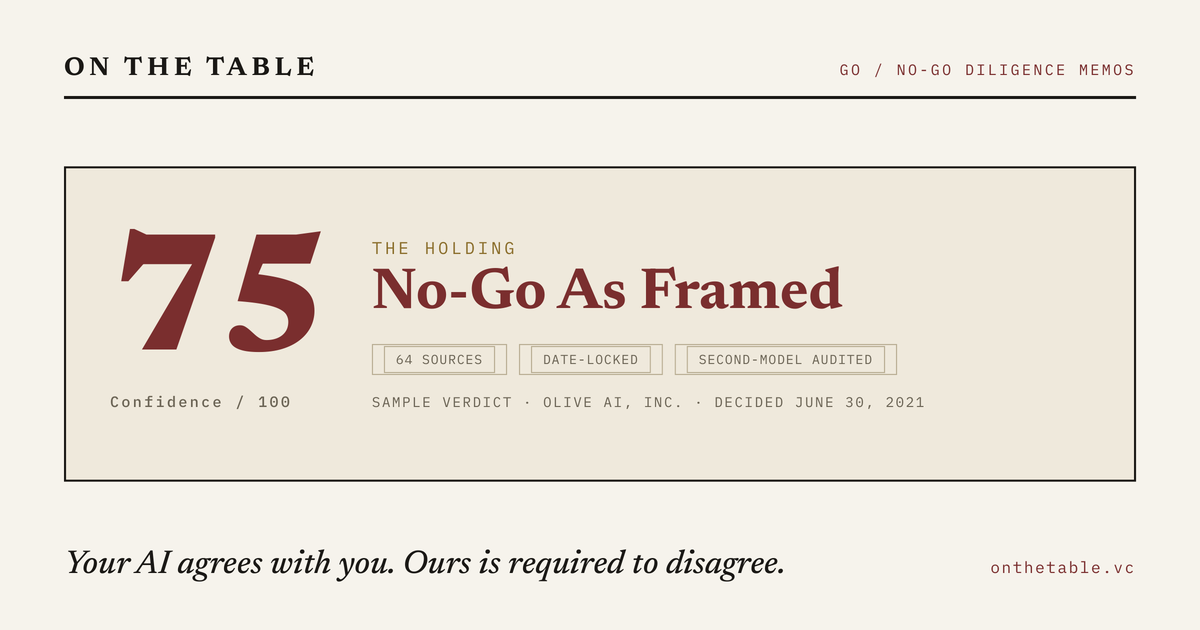
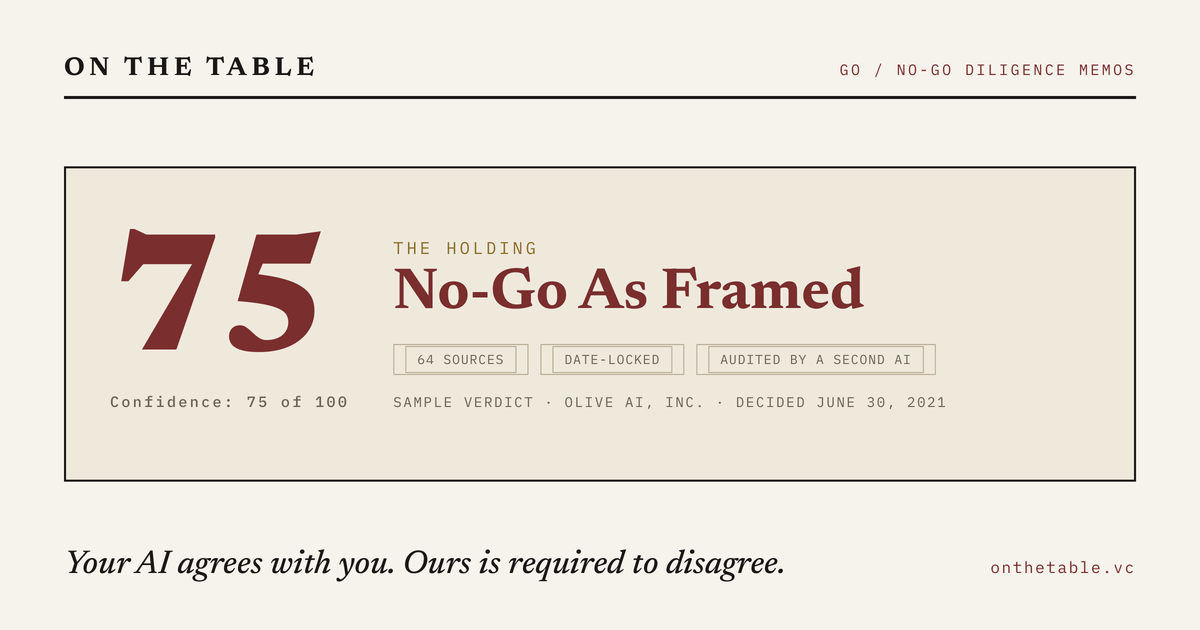
Landing card gloss + confidence label; og refresh

diff --git a/index.html b/index.html
@@ -42,6 +42,7 @@
   .card .num{font-family:var(--display);font-weight:800;font-size:72px;line-height:0.82;letter-spacing:-0.03em;color:var(--oxblood);}
   .card .num small{display:block;font-family:var(--mono);font-size:10px;font-weight:500;letter-spacing:0.16em;color:var(--dim);margin-top:8px;}
   .card .hold{font-family:var(--mono);font-size:11px;letter-spacing:0.16em;text-transform:uppercase;color:var(--gold);}
+  .card .gloss{font-family:var(--serif);font-style:italic;font-size:14px;color:var(--ink-soft);margin:0 0 10px;}
   .card .posture{font-family:var(--display);font-weight:700;font-size:26px;color:var(--oxblood);margin:2px 0 10px;line-height:1.05;}
   .card .tags{display:flex;gap:7px;flex-wrap:wrap;margin-bottom:10px;}
   .card .tag{font-family:var(--mono);font-size:9px;letter-spacing:0.09em;text-transform:uppercase;border:1px solid var(--tag-border);color:var(--dim);padding:3px 8px;}
@@ -101,10 +102,11 @@
     <h2>The proof</h2>
     <p>Before you trust a verdict on a live deal, you should see the method work where the answer is known. These are backtests. We take a famous deal, freeze the clock the day before the money moved, and hand the table only what was public before that date. Not one source in the file postdates the decision. Then the seats argue it out as if the wire were tomorrow. Here is what a verdict looks like:</p>
     <div class="card">
-      <div class="num">75<small>Confidence / 100</small></div>
+      <div class="num">75<small>Confidence: 75 of 100</small></div>
       <div>
         <div class="hold">The Holding</div>
         <div class="posture">No-Go As Framed</div>
+        <div class="gloss">We would not invest on the terms as presented.</div>
         <div class="tags"><span class="tag">64 sources</span><span class="tag">date-locked</span><span class="tag">audited by a second AI</span></div>
         <div class="cap">Sample verdict &middot; Olive AI, Inc. &middot; decided June 30, 2021</div>
       </div>